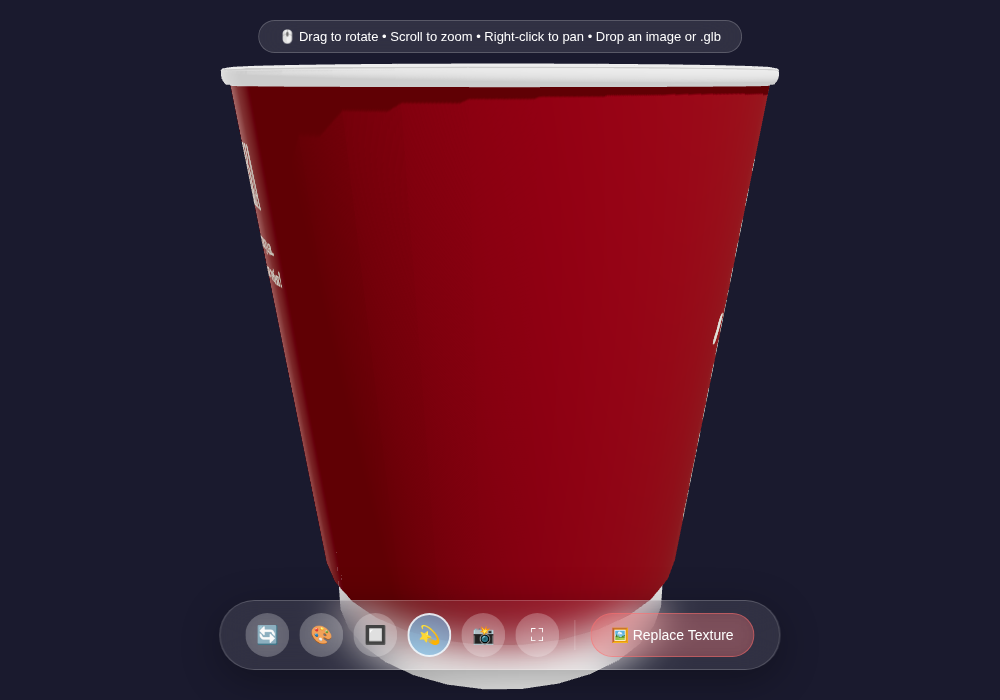
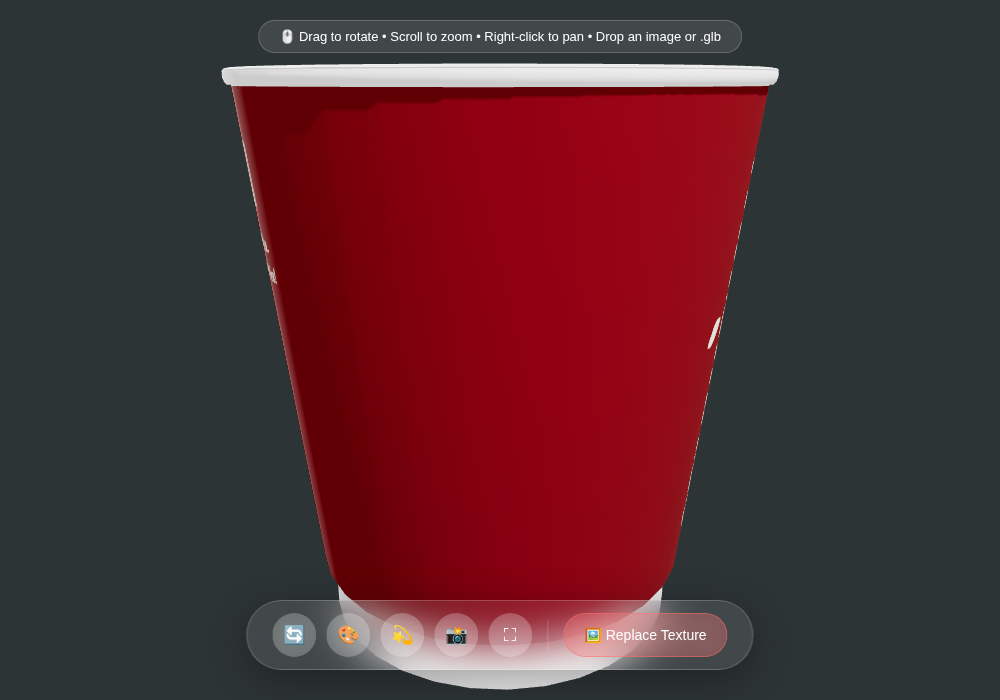
Remove wireframe toggle and rewrite README in Russian (#2)
Drop the wireframe toggle (button, W shortcut, viewer methods, and the helper only it used), rewrite the README as a shorter plain-language guide translated to Russian, and refresh the preview screenshot to match the current control bar.

diff --git a/js/Viewer.js b/js/Viewer.js
@@ -8,7 +8,6 @@ import { createControls } from './core/controls.js';
 import { ModelLoader } from './loaders/ModelLoader.js';
 import { TextureManager } from './loaders/TextureManager.js';
 import { UIManager } from './ui/UIManager.js';
-import { forEachMaterial } from './utils/helpers.js';
 
 /**
  * Top-level application object. It composes the rendering core, the loaders
@@ -28,7 +27,6 @@ export class Viewer {
     this.#initModules();
 
     this.backgroundIndex = 0;
-    this.wireframe = false;
     this.frameId = null;
   }
 
@@ -60,7 +58,6 @@ export class Viewer {
     this.ui.bind({
       onResetCamera: () => this.resetCamera(),
       onChangeBackground: () => this.cycleBackground(),
-      onToggleWireframe: () => this.toggleWireframe(),
       onToggleAutoRotate: () => this.toggleAutoRotate(),
       onScreenshot: () => this.takeScreenshot(),
       onToggleFullscreen: () => this.toggleFullscreen(),
@@ -131,7 +128,6 @@ export class Viewer {
     this.ui.showLoader('Loading model…');
     try {
       await this.modelLoader.load(url, (percent) => this.ui.updateProgress(percent));
-      this.applyWireframe(this.wireframe);
     } catch (error) {
       console.error(error);
       this.ui.showToast('Failed to load model', 'error');
@@ -196,21 +192,6 @@ export class Viewer {
     const { backgrounds } = this.config;
     this.backgroundIndex = (this.backgroundIndex + 1) % backgrounds.length;
     this.scene.background = new THREE.Color(backgrounds[this.backgroundIndex]);
-  }
-
-  toggleWireframe() {
-    this.applyWireframe(!this.wireframe);
-  }
-
-  /** @param {boolean} enabled */
-  applyWireframe(enabled) {
-    this.wireframe = enabled;
-    if (this.modelLoader.currentModel) {
-      forEachMaterial(this.modelLoader.currentModel, (material) => {
-        material.wireframe = enabled;
-      });
-    }
-    this.ui.setToggleState('wireframe', enabled);
   }
 
   toggleAutoRotate() {

diff --git a/js/ui/UIManager.js b/js/ui/UIManager.js
@@ -12,7 +12,6 @@ const MODEL_EXTENSIONS = ['.glb', '.gltf'];
 const SHORTCUTS = {
   r: 'onResetCamera',
   b: 'onChangeBackground',
-  w: 'onToggleWireframe',
   a: 'onToggleAutoRotate',
   s: 'onScreenshot',
   f: 'onToggleFullscreen',
@@ -42,7 +41,6 @@ export class UIManager {
       buttons: {
         reset: byId('reset-btn'),
         background: byId('bg-btn'),
-        wireframe: byId('wireframe-btn'),
         autorotate: byId('autorotate-btn'),
         screenshot: byId('screenshot-btn'),
         fullscreen: byId('fullscreen-btn'),
@@ -62,7 +60,6 @@ export class UIManager {
 
     buttons.reset.addEventListener('click', () => this.#call('onResetCamera'));
     buttons.background.addEventListener('click', () => this.#call('onChangeBackground'));
-    buttons.wireframe.addEventListener('click', () => this.#call('onToggleWireframe'));
     buttons.autorotate.addEventListener('click', () => this.#call('onToggleAutoRotate'));
     buttons.screenshot.addEventListener('click', () => this.#call('onScreenshot'));
     buttons.fullscreen.addEventListener('click', () => this.#call('onToggleFullscreen'));
@@ -165,7 +162,7 @@ export class UIManager {
 
   /**
    * Reflect a toggle's state on its button (visual + ARIA).
-   * @param {'wireframe' | 'autorotate'} name
+   * @param {'autorotate'} name
    * @param {boolean} active
    */
   setToggleState(name, active) {

diff --git a/index.html b/index.html
@@ -29,7 +29,6 @@
     <nav class="controls-panel" aria-label="Viewer controls">
       <button class="btn" id="reset-btn" type="button" title="Reset camera (R)" aria-label="Reset camera">🔄</button>
       <button class="btn" id="bg-btn" type="button" title="Change background (B)" aria-label="Change background">🎨</button>
-      <button class="btn" id="wireframe-btn" type="button" title="Toggle wireframe (W)" aria-label="Toggle wireframe" aria-pressed="false">🔲</button>
       <button class="btn is-active" id="autorotate-btn" type="button" title="Auto-rotate (A)" aria-label="Toggle auto-rotate" aria-pressed="true">💫</button>
       <button class="btn" id="screenshot-btn" type="button" title="Screenshot (S)" aria-label="Take screenshot">📸</button>
       <button class="btn" id="fullscreen-btn" type="button" title="Fullscreen (F)" aria-label="Toggle fullscreen">⛶</button>

diff --git a/js/utils/helpers.js b/js/utils/helpers.js
@@ -6,19 +6,6 @@ import * as THREE from 'three';
  */
 
 /**
- * Iterate every material on an object (handles the single / array cases).
- * @param {THREE.Object3D} root
- * @param {(material: THREE.Material, mesh: THREE.Mesh) => void} callback
- */
-export function forEachMaterial(root, callback) {
-  root.traverse((node) => {
-    if (!node.isMesh || !node.material) return;
-    const materials = Array.isArray(node.material) ? node.material : [node.material];
-    for (const material of materials) callback(material, node);
-  });
-}
-
-/**
  * Recursively dispose geometries, materials and their textures under an
  * object so the GPU memory it held is released. Prevents leaks when a model
  * is swapped out at runtime.

diff --git a/README.md b/README.md
@@ -1,183 +1,70 @@
 # 3D Cup Viewer
 
-A lightweight, configuration-driven 3D model viewer built with
-[Three.js](https://threejs.org/). Drop in a `.glb`/`.gltf` model, swap its
-texture with a click or a drag, and view it with orbit controls, auto-rotation,
-wireframe mode, screenshots and fullscreen.
+Небольшой просмотрщик на Three.js: показывает 3D-модель в браузере и позволяет
+примерять на неё разные текстуры. Сборка не нужна — это обычные ES-модули,
+которые работают с любого статического сервера.
 
-No build step and no dependencies to install — it runs as plain ES modules
-straight from the browser, loading Three.js from a CDN via an
-[import map](https://developer.mozilla.org/docs/Web/HTML/Element/script/type/importmap).
+![Просмотрщик с красным стаканом](docs/preview.png)
 
-![Screenshot of the viewer showing a red cup](docs/preview.png)
+## Запуск
 
----
-
-## Quick start
-
-Because the app uses ES modules and loads local assets, it must be served over
-HTTP (opening `index.html` from the file system will not work).
+Страница подгружает модули и ассеты по HTTP, поэтому открывайте её через сервер,
+а не двойным кликом по `index.html`:
 
 ```bash
-# From the project root, use any static server, e.g.:
 python3 -m http.server 8000
-# then open http://localhost:8000
+# откройте http://localhost:8000
 ```
 
-Any static host works (GitHub Pages, Netlify, `npx serve`, etc.).
+## Другая модель
 
----
-
-## Project structure
-
-```
-.
-├── index.html              # Markup only — no inline CSS or JS
-├── css/
-│   ├── style.css           # Base styles + design tokens (CSS variables)
-│   └── responsive.css      # Small-screen / orientation adjustments
-├── js/
-│   ├── main.js             # Entry point; exposes the public API
-│   ├── config.js           # ⭐ Single source of truth for all settings
-│   ├── Viewer.js           # Orchestrator: composes everything, owns the loop
-│   ├── core/
-│   │   ├── scene.js        # createScene()
-│   │   ├── camera.js       # createCamera()
-│   │   ├── renderer.js     # createRenderer() — color pipeline & shadows
-│   │   ├── lighting.js     # createLighting() — data-driven light rig
-│   │   └── controls.js     # createControls() — OrbitControls
-│   ├── loaders/
-│   │   ├── ModelLoader.js  # Loads, centers, scales & frames models
-│   │   └── TextureManager.js # Swaps textures in place, manages disposal
-│   ├── ui/
-│   │   └── UIManager.js    # All DOM: buttons, shortcuts, toasts, drag & drop
-│   └── utils/
-│       └── helpers.js      # Pure helpers: disposal, measuring, camera framing
-├── assets/
-│   ├── models/8cups.glb
-│   └── textures/mockup.jpg
-└── README.md
-```
-
-### Why this layout?
-
-- **Separation of concerns** — markup, styling and logic never mix. Each module
-  has a single responsibility (`SceneManager`, loaders, UI…).
-- **`core/` factories vs `loaders/`/`ui/` classes** — stateless creation is
-  expressed as small factory functions; anything that owns state and a lifecycle
-  (models, textures, DOM) is a class.
-- **`Viewer` as the only integrator** — it is the single place that knows about
-  all the pieces, so the individual modules stay decoupled and testable.
-
----
-
-## Configuration
-
-Almost everything is tunable from **`js/config.js`** without touching logic:
-model & texture paths, light intensities & shadows, background colors, camera
-FOV/position, OrbitControls (zoom limits, damping, auto-rotate speed), tone
-mapping exposure, pixel-ratio clamp, and model normalisation.
+Перетащите файл `.glb`/`.gltf` на страницу или пропишите путь в `js/config.js`:
 
 ```js
-export const CONFIG = Object.freeze({
-  assets: { model: 'assets/models/8cups.glb', texture: 'assets/textures/mockup.jpg' },
-  camera: { fov: 45, position: { x: 5, y: 3, z: 8 }, /* … */ },
-  controls: { minDistance: 1, maxDistance: 20, autoRotate: true, /* … */ },
-  // …lighting, backgrounds, renderer, model normalisation
-});
+assets: {
+  model: 'assets/models/8cups.glb',
+  texture: 'assets/textures/mockup.jpg',
+}
 ```
 
----
+Модель сама центрируется, масштабируется и попадает в кадр.
 
-## Replacing the model
+## Смена текстуры
 
-**Permanently** — edit one line in `js/config.js`:
-
-```js
-assets: { model: 'assets/models/my-model.glb', /* … */ }
-```
-
-**At runtime** — one line from the console or your own code:
-
-```js
-loadModel('assets/models/my-model.glb');
-```
-
-…or simply **drag & drop** a `.glb`/`.gltf` file onto the page.
-
-The loader automatically centers the model, scales it to a consistent size,
-computes its bounding box, enables shadows, discovers texturable materials and
-re-frames the camera — no manual adjustment required.
-
-## Replacing the texture
-
-**Permanently** — edit `assets.texture` in `js/config.js`.
-
-**At runtime** — one line:
+Нажмите **Replace Texture**, перетащите картинку на страницу или вызовите из
+консоли:
 
 ```js
 replaceTexture('assets/textures/mockup.jpg');
 ```
 
-…or use the **Replace Texture** button, or **drag & drop** an image onto the
-page. Textures are swapped in place (no model reload) and the previous ones are
-disposed to avoid GPU memory leaks.
+Текстура меняется на месте — модель не перезагружается.
 
----
+## Управление
 
-## Controls
+Зажатая кнопка мыши — вращение, колесо — зум, правая кнопка — панорамирование.
+Остальное — на нижней панели и на паре клавиш:
 
-| Action            | Button | Key |
-| ----------------- | :----: | :-: |
-| Reset camera      |   🔄   |  R  |
-| Change background |   🎨   |  B  |
-| Toggle wireframe  |   🔲   |  W  |
-| Toggle auto-rotate|   💫   |  A  |
-| Screenshot (PNG)  |   📸   |  S  |
-| Fullscreen        |   ⛶   |  F  |
-| Replace texture   |  🖼   |  —  |
+- `R` — сбросить камеру
+- `B` — сменить фон
+- `A` — включить/выключить автоповорот
+- `S` — сохранить скриншот
+- `F` — полноэкранный режим
 
-Orbit with the left mouse button, zoom with the wheel, pan with the right
-button. Touch gestures are supported on mobile.
+## Структура
 
----
+```
+index.html        разметка
+css/              стили
+js/config.js      настройки (камера, свет, пределы зума, фон, тени…)
+js/main.js        точка входа
+js/Viewer.js      связывает всё вместе
+js/core/          сцена, камера, рендерер, свет, управление
+js/loaders/       загрузка модели и текстур
+js/ui/            кнопки, горячие клавиши, drag & drop
+js/utils/         общие вспомогательные функции
+assets/           модели и текстуры
+```
 
-## Rendering & performance notes
-
-- **Color pipeline:** sRGB output color space, ACES Filmic tone mapping,
-  linear-space lighting, and sRGB textures — physically correct, no washed-out
-  colors.
-- **Pixel ratio** is clamped (default `2`) to avoid oversized framebuffers on
-  hi-DPI displays.
-- **Soft shadows** via `PCFSoftShadowMap`, configurable shadow-map resolution
-  and bias.
-- **Memory safety:** geometries, materials and textures are disposed when a
-  model or texture is swapped; the `TextureManager` only disposes textures it
-  created, never the model's originals.
-- **Resize** is handled by a `ResizeObserver` on the container (not just the
-  window), so it reacts to layout changes too.
-- **WebGL context loss** is caught and the render loop is restarted on restore.
-- **Draco-compressed** meshes are supported (decoder fetched lazily, only if a
-  model needs it).
-
----
-
-## Extending
-
-The decoupled structure makes common extensions straightforward:
-
-- **Add a control** — add a button in `index.html`, wire it in `UIManager.bind`,
-  and implement the action on `Viewer`.
-- **Add post-processing** — introduce an `EffectComposer` in `Viewer` and render
-  it instead of `renderer.render` in the loop.
-- **Add an environment map / HDR** — extend `core/lighting.js` (or a new
-  `core/environment.js`) and set `scene.environment`.
-- **Multiple models** — `ModelLoader` already owns a single model with clean
-  disposal; generalise it to a keyed collection.
-
----
-
-## Tech
-
-- Three.js `0.160.0` (loaded via import map from a CDN)
-- Vanilla ES modules — no bundler, no framework, no install step
+Почти всё, что захочется поменять, лежит в `js/config.js`. Сам Three.js
+подключается с CDN через import map в `index.html`.
